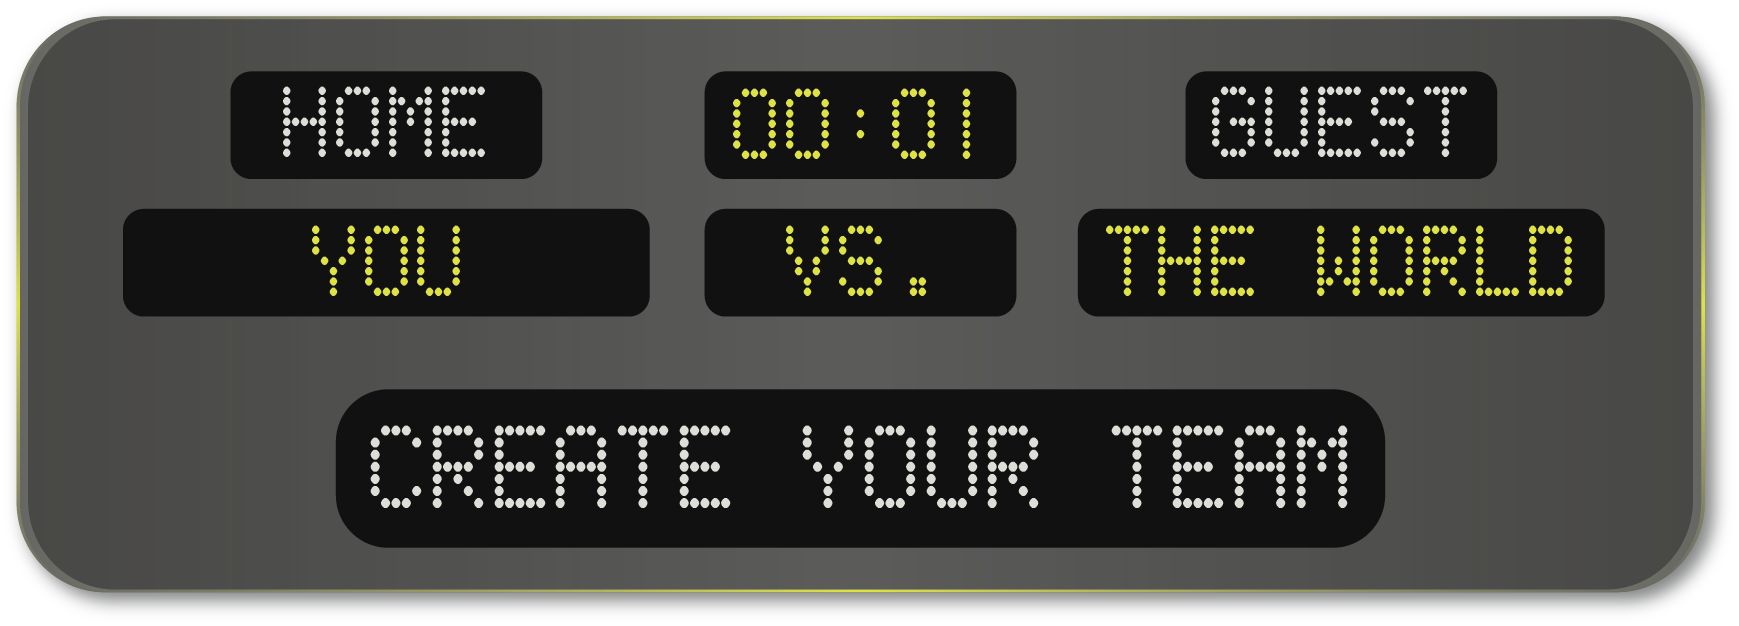
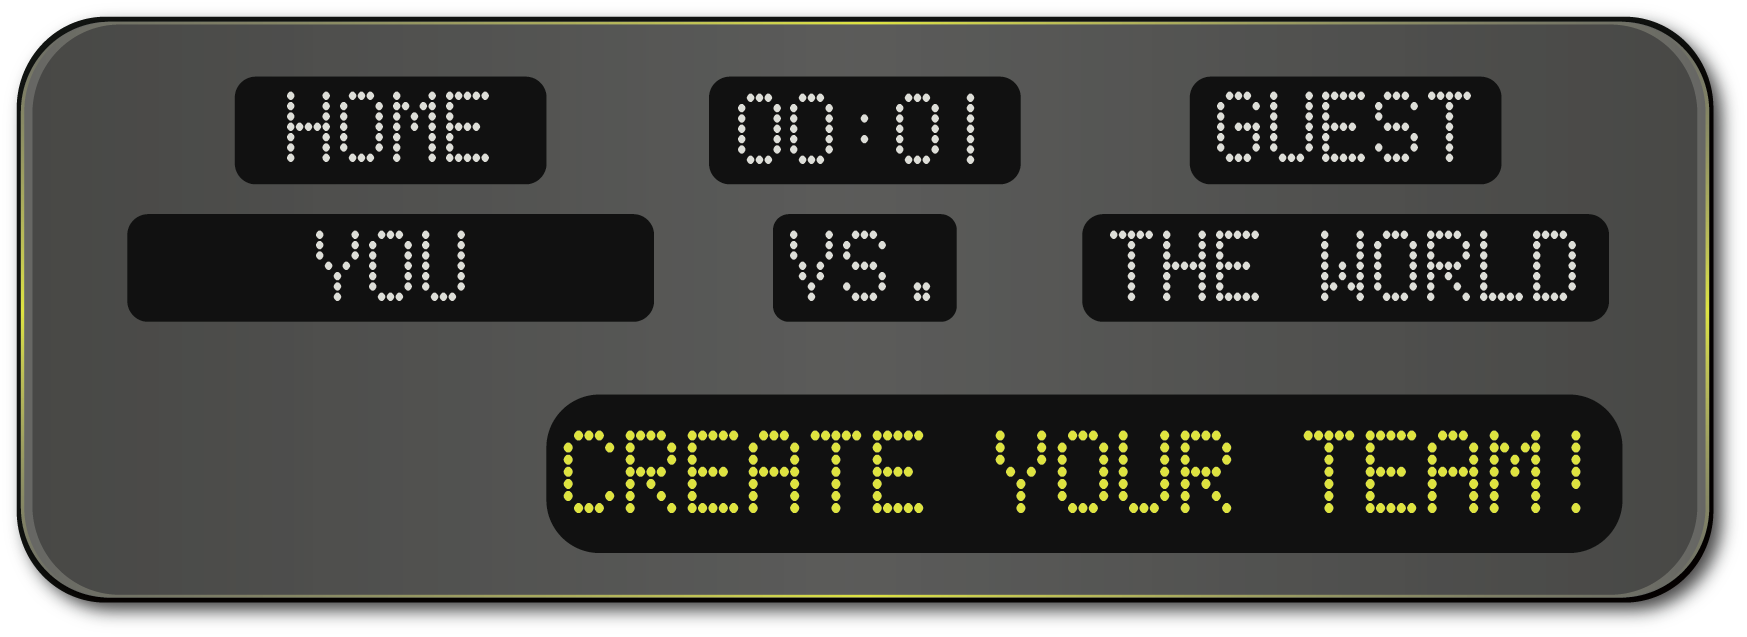
Tweaking CTA and color scheme still, also the iOS Simulator is going to drive me insane.  It's still not showing any gradients or other CSS stylings besides basic colors and round corners.

diff --git a/styles.css b/styles.css
@@ -5,24 +5,26 @@
 */
 
 body {
-    background-color: #9FD39F;
-    background-image: -webkit-gradient(#9FD39F, #8FBC8F 100%);
+    background-color: #339933;
+    background-image: -webkit-gradient(#2A692D, #336633 100%);
+
     background-repeat: no-repeat;
 }
 img[id=ctaimg]{
-    margin: 15px 0;
+    margin: 1px 0;
     width: 100%;
+    
 }
 header h1:nth-child(1) {
-    margin: 0px 0px 20px 0px;
-    padding: 10px;
-    font: bold 30px Score Board;
-    color: #00000f;
+    width: auto
+    padding: 5px;
+    font: bold 36px Score Board;
+    color: #E2EF35;
     text-align: center;
     text-shadow: 1px 1px #5f6b5f;
-    border: thin solid #627681;
-    border-radius: 0px 0px 15px 0px;
-    background-image: -webkit-linear-gradient(top, #61c264, #55a557 50%); 
+    border: 1px solid #141714;
+    border-radius: 10px;
+    background-image: -webkit-linear-gradient(top, #474745, #5c5b5a 100%);
 }
 h1 label:nth-child(1) {
     font: bold 20px Helvetica;
@@ -30,6 +32,11 @@ h1 label:nth-child(1) {
 h1 a {
     text-decoration: none;
     color: black;
+}
+form[id=search]{
+    display: block;
+    width: auto;
+    margin:auto;
 }
 form select:nth-child(1) {
     margin: 0 0 20px 0;

diff --git a/index.html b/index.html
@@ -15,16 +15,18 @@
         <header>
             <h1 id="appname">Pickup League</h1>
         </header>
-        <div class="Search">
-            <form id="search" action="">
-                <input id="searchbox" type="text" placeholder="Team Name" />
-                <input id="gosearch" type="submit" value="Search">
-            </form>
-        </div>
         <div class="CTA">
             <a href="additem.html" id="ctalink">
                 <img id="ctaimg" src="images/CTA.png">
             </a>
+        </div>
+        <div class="Search">
+            <form id="search" action="">
+                <div align="center">
+                <input id="searchbox" type="text" placeholder="Team Name" />
+                <input id="gosearch" type="submit" value="Search">
+                </div>
+            </form>
         </div>
         <div class="Sports">
             <ul id="sportslist">
